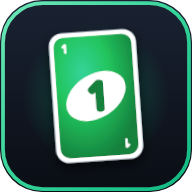
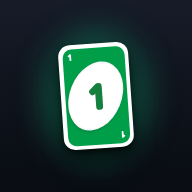
feat(pwa): render exact UnoCard #1 geometry with safe-zone sizing for Android One UI, Pixel, and iOS

diff --git a/index.html b/index.html
@@ -12,10 +12,10 @@
     <meta name="apple-mobile-web-app-capable" content="yes" />
     <meta name="apple-mobile-web-app-status-bar-style" content="black-translucent" />
     <meta name="apple-mobile-web-app-title" content="كوت أونو" />
-    <meta name="theme-color" content="#0a0d14" />
-    <link rel="manifest" href="/manifest.webmanifest?v=2" />
-    <link rel="icon" type="image/svg+xml" href="/icon.svg?v=2" />
-    <link rel="apple-touch-icon" href="/apple-touch-icon-v2.png?v=2" />
+    <meta name="theme-color" content="#090c12" />
+    <link rel="manifest" href="/manifest.webmanifest?v=3" />
+    <link rel="icon" type="image/svg+xml" href="/icon.svg?v=3" />
+    <link rel="apple-touch-icon" href="/apple-touch-icon-v3.png?v=3" />
     <link rel="preconnect" href="https://fonts.googleapis.com" />
     <link rel="preconnect" href="https://fonts.gstatic.com" crossorigin />
     <link href="https://fonts.googleapis.com/css2?family=Tajawal:wght@400;600;700;800;900&family=Fredoka:wght@600;700;800&family=Changa:wght@700;800;900&display=swap" rel="stylesheet" />
